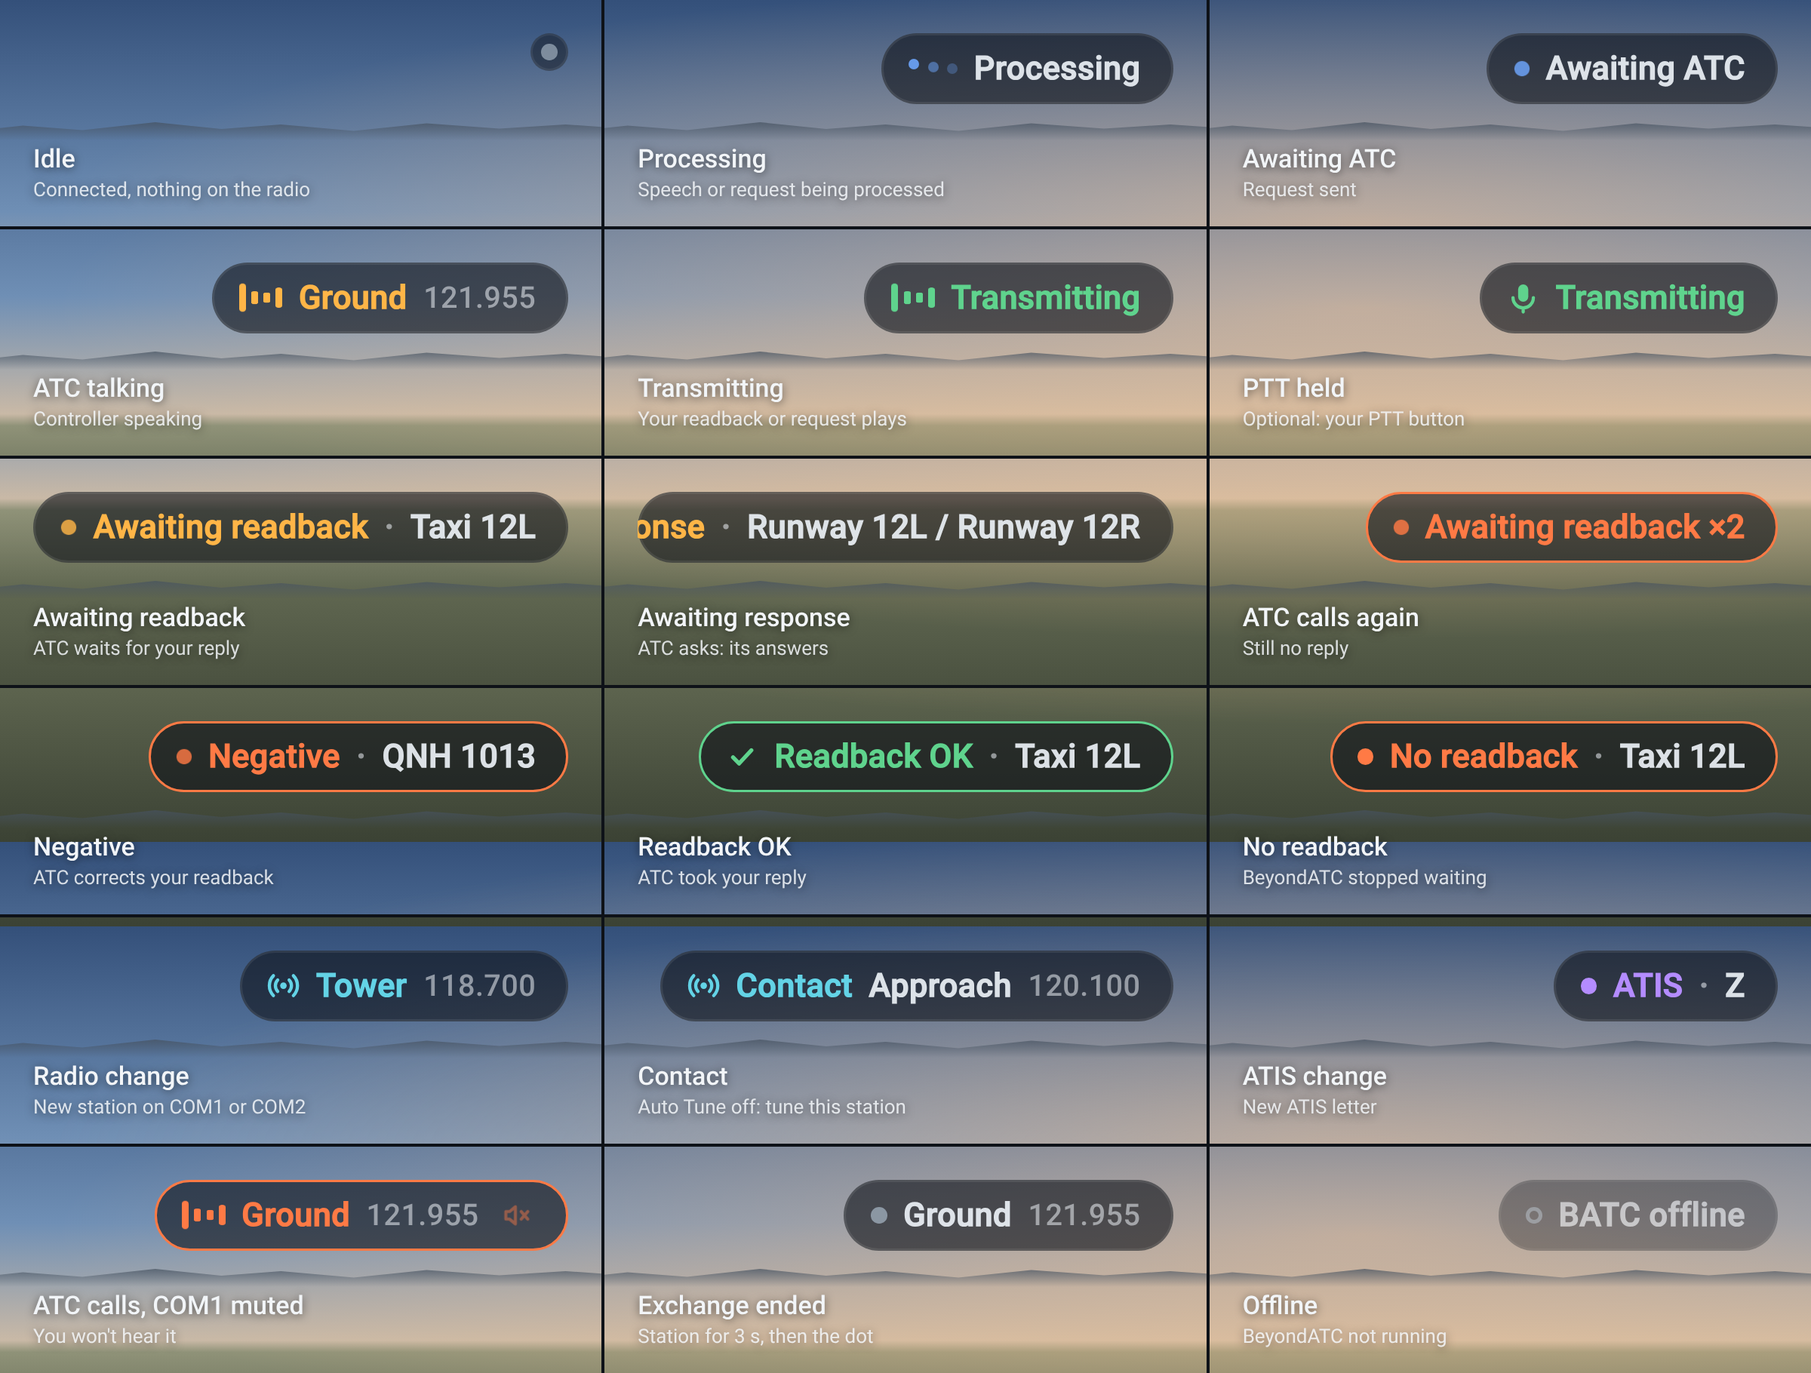
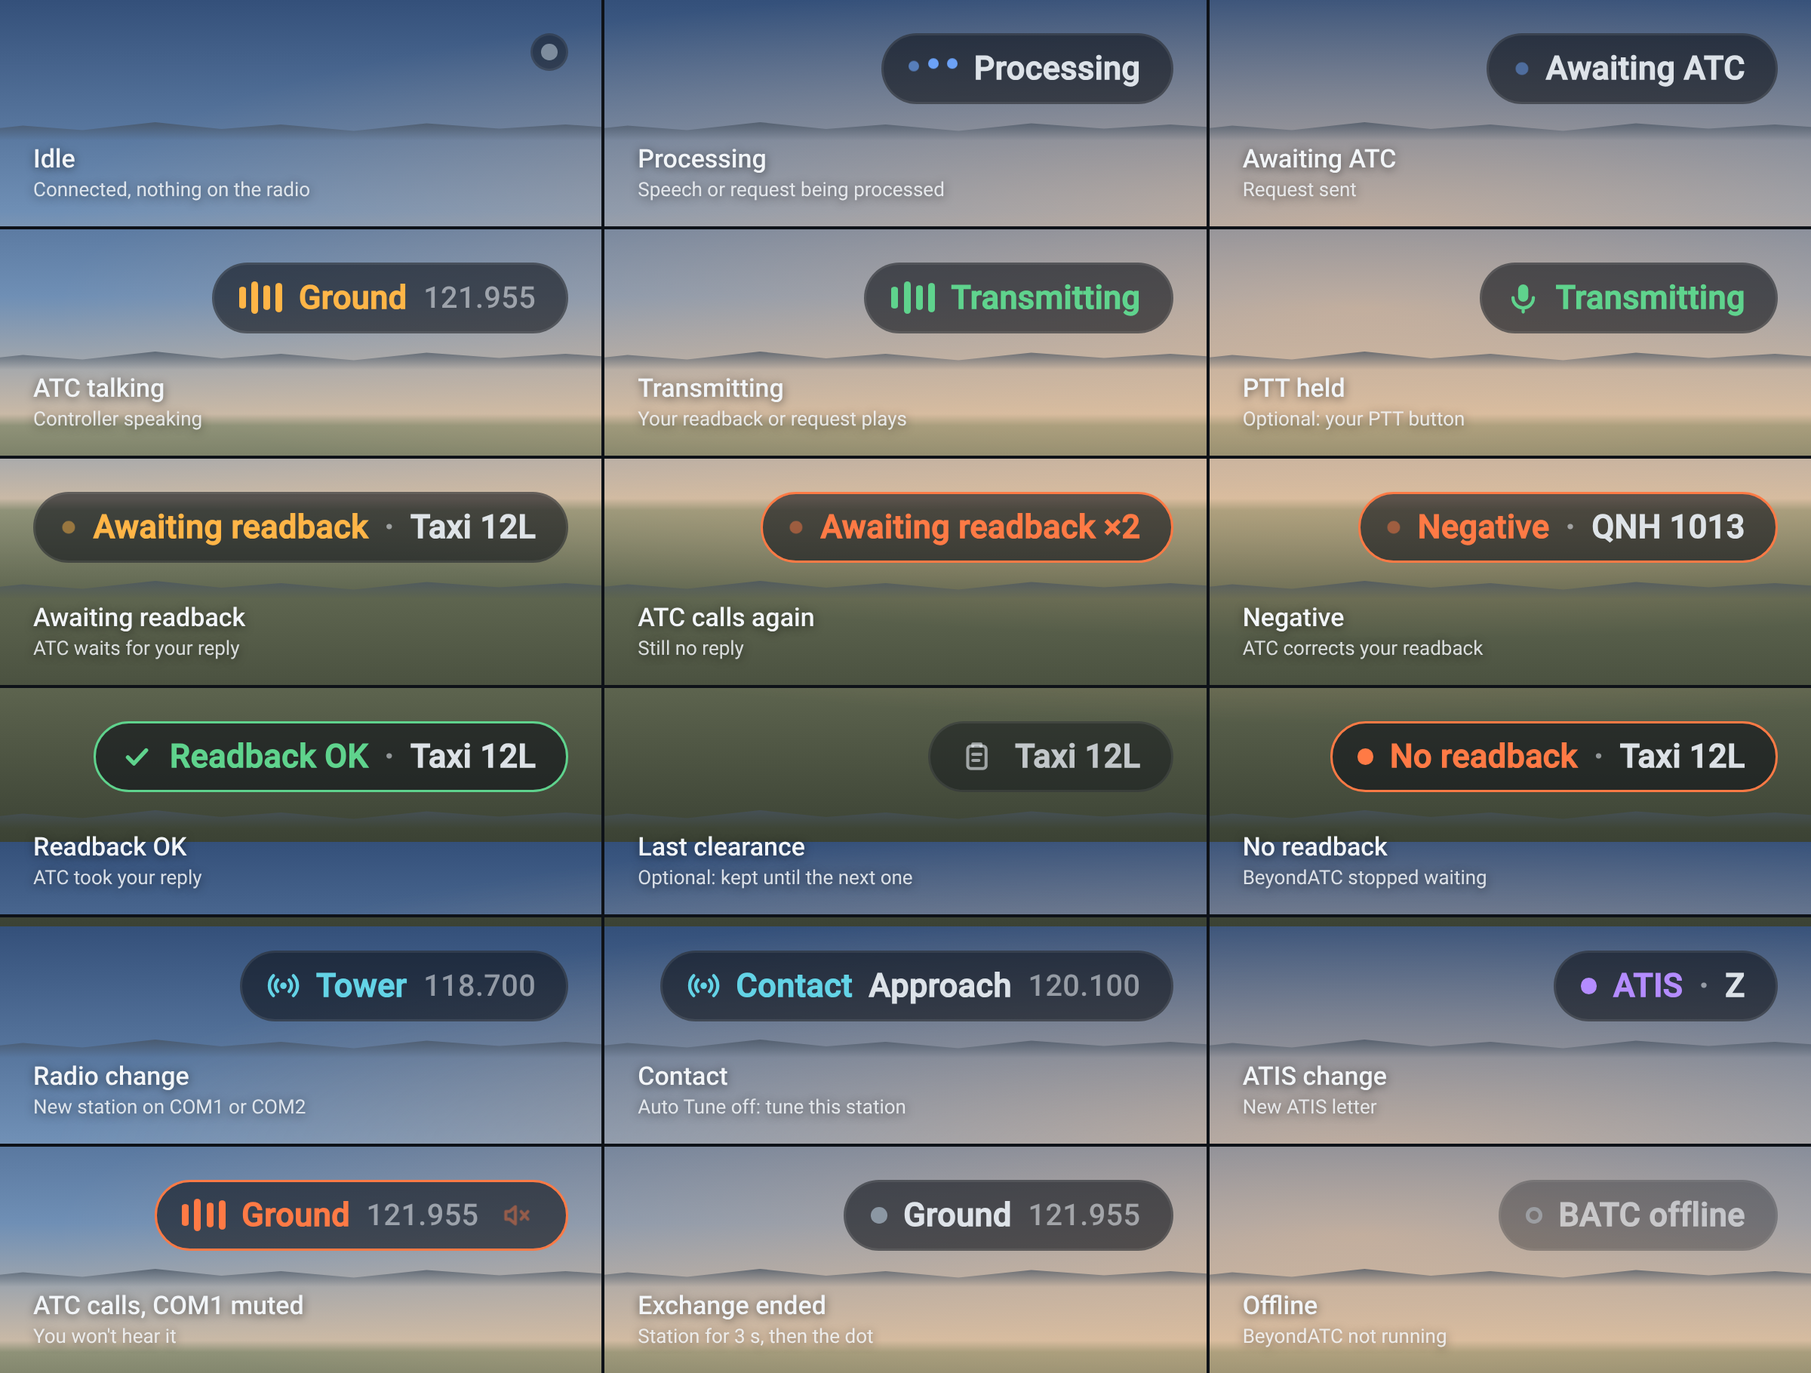
Keep last clearance (option)
After ATC takes your reply, its hint stays on the pill, dimmed, instead of shrinking to the dot (follows
the detail setting; Boxes shows "Last clearance" over the boxes). The next reply ATC takes replaces it;
a "No readback", a new station on COM1 or a disconnect clears it. On hover its clipboard icon turns into
a ✕ that hides it; the rest of the pill still opens the settings. Setting "Keep last clearance", off by
default. The hover buttons now follow the Size setting.

Claude-Session: https://claude.ai/code/session_01Lk4uSD1H6Vg8SX71CWaquM

diff --git a/src/html_ui/paul-batc-pill/pill.js b/src/html_ui/paul-batc-pill/pill.js
@@ -20,6 +20,8 @@
     showReadback: true,  // while BeyondATC waits for your readback, hint what it is ("Taxi 30R")
     readbackDetail: "hint", // with a readback pending: "none" (status only), "short" (the boxes' values:
                             // "30R · T1"), "hint" ("Taxi via T1"), "boxes" (the toolbar's clearance boxes)
+    keepLast: false,     // after ATC took your reply, keep its hint on the pill (quiet) until the next instruction,
+                         // a new station on COM1, or its ✕ (hover) instead of shrinking to the dot
     showTuning: true,    // show the new station when COM1/COM2 changes
     showContact: true,   // Auto Tune off: after "contact <station> <freq>", remind you until COM1 is on it
     showAtis: true,      // show a new ATIS letter
@@ -42,7 +44,7 @@
   var CONFIRM_MS = 1500;  // "Readback OK" shows this long after ATC took your reply
 
   // What the settings card changes. Saved in localStorage, which every sim UI view shares.
-  var USER_KEYS = ["corner", "x", "y", "scale", "showTuning", "showContact", "showAtis", "showReadback", "readbackDetail",
+  var USER_KEYS = ["corner", "x", "y", "scale", "showTuning", "showContact", "showAtis", "showReadback", "readbackDetail", "keepLast",
     "warnMuted", "showPtt", "hoverSwitches", "hideOffline",
     "showTraffic", "facility"];
   var STORE_KEY = "batcpill.settings";
@@ -91,7 +93,8 @@
     missed: null,        // { label, detail } after BeyondATC stopped waiting without a reply, until missedUntil
     missedUntil: 0,
     confirmed: null,     // { readback, detail, boxes } after ATC took your reply, shown until confirmedUntil
-    confirmedUntil: 0,   // 0 while your reply still plays: the confirmation starts once the radio is quiet
+    confirmedUntil: 0,
+    kept: null,          // { detail, boxes } of the last reply ATC took, shown with keepLast   // 0 while your reply still plays: the confirmation starts once the radio is quiet
     infoBoxes: [],       // the toolbar's clearance boxes: [{ title: "SID", info: "KELA8L" }, ...]
     seenFacility: false, // the first Facility after connecting is the snapshot, not a change
     editing: false,      // settings card open: the pill shows a sample so size/position are visible
@@ -153,6 +156,7 @@
     '<div class="bc-pane" data-pane="display">' +
       toggleRow("Readback hints", "showReadback") +
       choiceRow("readbackDetail", [["none", "None"], ["short", "Short"], ["hint", "Hint"], ["boxes", "Boxes"]]) +
+      toggleRow("Keep last clearance", "keepLast") +
       toggleRow("Radio changes", "showTuning") + toggleRow("Contact reminders", "showContact") +
       toggleRow("ATIS changes", "showAtis") + toggleRow("Warn when COM1 muted", "warnMuted") +
       toggleRow("PTT indicator", "showPtt") +
@@ -220,6 +224,7 @@
     st[v] = "calc(" + Number(CONFIG.y) + " * 0.0926vh)";
     st[h] = "calc(" + Number(CONFIG.x) + " * 0.0926vh)";
     st.setProperty("--u", (0.0926 * Number(CONFIG.scale || 1)) + "vh");
+    switches.style.setProperty("--k", (0.0926 * Number(CONFIG.scale || 1)) + "vh"); // the hover buttons scale too
     root.setAttribute("data-side", h);
 
     // the card opens beside the pill, away from the screen edge (card units stay at scale 1)
@@ -302,13 +307,34 @@
     if (CONFIG.readbackDetail === "boxes" && boxes.length) {
       // "Awaiting readback" over the boxes, as in the toolbar; their titles say what it's about
       return { cls: cls + " is-msg", html: lamp + '<span class="bp-who">' + label + "</span>",
-        extra: '<span class="bp-boxes">' + boxes.map(function (b) {
-          return '<span class="bp-box"><span class="bp-box-t">' + esc(b.title) + '</span><span class="bp-box-v">' +
-            esc(b.info) + "</span></span>";
-        }).join("") + "</span>" };
+        extra: boxesHtml(boxes) };
     }
     return { cls: cls, html: lamp + '<span class="bp-who">' + label + "</span>" +
       (detail ? '<span class="bp-sep">·</span><span>' + esc(detail) + "</span>" : "") };
+  }
+
+  function boxesHtml(boxes) {
+    return '<span class="bp-boxes">' + boxes.map(function (b) {
+      return '<span class="bp-box"><span class="bp-box-t">' + esc(b.title) + '</span><span class="bp-box-v">' +
+        esc(b.info) + "</span></span>";
+    }).join("") + "</span>";
+  }
+
+  // The last reply ATC took, kept quiet in the pill. Its clipboard icon turns into a ✕ on hover (CSS); a click
+  // there hides it (the rest of the pill still opens the settings). Returns null when there's nothing to show.
+  var KEPT_ICON = '<span class="bp-unpin" data-input-group="BATC-PILL">' +
+    '<svg class="bp-clip" viewBox="0 0 16 16" fill="none" stroke="currentColor" stroke-width="1.5" stroke-linecap="round" ' +
+    'stroke-linejoin="round"><rect x="3.5" y="3" width="9" height="11" rx="1.5"/><path d="M6 3V2h4v1M6 7h4M6 10h3"/></svg>' +
+    '<svg class="bp-x" viewBox="0 0 16 16" fill="none" stroke="currentColor" stroke-width="1.8" stroke-linecap="round">' +
+    '<path d="M4.5 4.5l7 7M11.5 4.5l-7 7"/></svg></span>';
+
+  function keptLook(k) {
+    if (CONFIG.readbackDetail === "none") return null;
+    if (CONFIG.readbackDetail === "boxes" && k.boxes.length) {
+      return { cls: "s-pin is-msg", html: KEPT_ICON + "<span>Last clearance</span>", extra: boxesHtml(k.boxes) };
+    }
+    var d = detailFor(k.detail, k.boxes);
+    return d ? { cls: "s-pin", html: KEPT_ICON + "<span>" + esc(d) + "</span>" } : null;
   }
 
   // ATC took your reply (BeyondATC says nothing back to a correct one): green "Readback OK" with the hint
@@ -376,6 +402,12 @@
     switch (state.demo) {
       case "showTuning":
         if (CONFIG.showTuning) return tuneLook({ label: "", facility: { name: "Montpellier Tower", freq: "118.700" } });
+        break;
+      case "keepLast":
+        if (CONFIG.showReadback && CONFIG.keepLast) {
+          var kv = keptLook({ detail: "Taxi via T1 · Hold short 12L", boxes: DEMO_BOXES });
+          if (kv) return kv;
+        }
         break;
       case "showReadback":
       case "readbackDetail":
@@ -462,6 +494,8 @@
           v = atisLook(state.atis);
         } else if (state.contact && !state.autoTune && CONFIG.showContact) {
           v = contactLook(state.contact);
+        } else if (state.kept && CONFIG.keepLast && CONFIG.showReadback && (v = keptLook(state.kept))) {
+          // the last reply ATC took, instead of the station and the dot
         } else if (now < state.lingerUntil) {
           v = { cls: "", html: LAMP + facilityHtml("") };
         }
@@ -654,6 +688,7 @@
         state.confirmed = { readback: wc.readback, detail: readbackHint(state.readback.text) || wc.kind,
           boxes: wc.choices.length ? [] : state.infoBoxes };
         state.confirmedUntil = 0;
+        state.kept = { detail: state.confirmed.detail, boxes: state.confirmed.boxes };
         if (state.mode === "ready") startConfirm();
       } else if (state.readback && !state.replied) {
         // BeyondATC stopped waiting on its own (after ~18 s for taxi or acknowledge replies)
@@ -661,6 +696,7 @@
         state.missed = { label: w.readback ? "No readback" : "No response",
           detail: readbackHint(state.readback.text) || (state.readback.negative && correction(state.readback.text)) || w.kind, boxes: w.choices.length ? [] : state.infoBoxes };
         state.missedUntil = Date.now() + CONFIG.missedMs;
+        state.kept = null; // a newer instruction went unanswered: the kept one is out of date
         clearTimeout(timers.missed);
         timers.missed = setTimeout(render, CONFIG.missedMs + 20);
       }
@@ -784,6 +820,7 @@
         state.facility = freq ? { name: stationName(parts[0]), freq: freq } : { name: "", freq: "" };
         if (state.seenFacility && (prev.name !== state.facility.name || prev.freq !== state.facility.freq)) {
           tuned("", state.facility);
+          state.kept = null; // a new station: the last clearance belongs to the old one
         }
         if (state.contact && onContact(state.contact)) state.contact = null;
         state.seenFacility = true;
@@ -888,6 +925,7 @@
       state.repliesKey = "";
       state.infoBoxes = [];
       state.readback = null;
+      state.kept = null;
       showSwitches(false);
       render();
       if (!destroyed) timers.reconnect = setTimeout(connect, CONFIG.reconnectMs);
@@ -948,7 +986,18 @@
     render();
   }
 
-  root.addEventListener("click", function () { openCard(!state.editing); });
+  root.addEventListener("click", function (e) {
+    // the kept clearance's ✕ hides it; anywhere else opens the settings
+    for (var el = e.target; el && el !== root; el = el.parentNode) {
+      if (el.className && String(el.className.baseVal || el.className).indexOf("bp-unpin") >= 0) {
+        if (state.editing) break; // the settings sample: just a click on the pill
+        state.kept = null;
+        render();
+        return;
+      }
+    }
+    openCard(!state.editing);
+  });
 
   card.addEventListener("click", function (e) {
     var el = e.target;

diff --git a/docs/render/pills.js b/docs/render/pills.js
@@ -13,6 +13,9 @@ var BP = (function () {
     'stroke-linecap="round" stroke-linejoin="round"><path d="M3 6h2l3-2.5v9L5 10H3z"/><path d="M11 6l3.5 4M14.5 6L11 10"/></svg>';
   var CHECK = '<svg class="bp-ico bp-check" viewBox="0 0 16 16" fill="none" stroke="currentColor" stroke-width="2" ' +
     'stroke-linecap="round" stroke-linejoin="round"><path d="M3.5 8.5l3 3 6-6.5"/></svg>';
+  var KEPT = '<span class="bp-unpin"><svg class="bp-clip" viewBox="0 0 16 16" fill="none" stroke="currentColor" ' +
+    'stroke-width="1.5" stroke-linecap="round" stroke-linejoin="round"><rect x="3.5" y="3" width="9" height="11" rx="1.5"/>' +
+    '<path d="M6 3V2h4v1M6 7h4M6 10h3"/></svg></span>';
   var FREQ = '<span class="bp-freq">121.955</span>';
   var SEP = '<span class="bp-sep">·</span>';
   var STATES = [
@@ -24,13 +27,12 @@ var BP = (function () {
     ["ptt", "s-you", MIC + '<span class="bp-who">Transmitting</span>', "PTT held", "Optional: your PTT button"],
     ["readback", "s-atc is-pulse", LAMP + '<span class="bp-who">Awaiting readback</span>' + SEP + "<span>Taxi 12L</span>",
       "Awaiting readback", "ATC waits for your reply"],
-    ["question", "s-atc is-pulse", LAMP + '<span class="bp-who">Awaiting response</span>' + SEP + "<span>Runway 12L / Runway 12R</span>",
-      "Awaiting response", "ATC asks: its answers"],
     ["insist", "s-insist is-pulse", LAMP + '<span class="bp-who">Awaiting readback ×2</span>', "ATC calls again", "Still no reply"],
     ["negative", "s-insist is-pulse", LAMP + '<span class="bp-who">Negative</span>' + SEP + "<span>QNH 1013</span>",
       "Negative", "ATC corrects your readback"],
     ["ok", "s-ok", CHECK + '<span class="bp-who">Readback OK</span>' + SEP + "<span>Taxi 12L</span>",
       "Readback OK", "ATC took your reply"],
+    ["kept", "s-pin", KEPT + "<span>Taxi 12L</span>", "Last clearance", "Optional: kept until the next one"],
     ["missed", "s-insist", LAMP + '<span class="bp-who">No readback</span>' + SEP + "<span>Taxi 12L</span>",
       "No readback", "BeyondATC stopped waiting"],
     ["tune", "s-tune", RADIO + '<span class="bp-who">Tower</span><span class="bp-freq">118.700</span>', "Radio change", "New station on COM1 or COM2"],

diff --git a/src/html_ui/paul-batc-pill/pill.css b/src/html_ui/paul-batc-pill/pill.css
@@ -134,6 +134,30 @@
 #batc-pill.s-atis  { --c: #b48cff; }
 #batc-pill.s-ok    { --c: #5fd38d; }
 #batc-pill.s-ok .bp-bg { border-color: var(--c); }
+/* the last reply ATC took, kept (keepLast): quieter than any live state */
+#batc-pill.s-pin { --c: rgba(236, 241, 246, 0.6); color: rgba(236, 241, 246, 0.78); }
+#batc-pill.s-pin .bp-bg { background-color: rgba(14, 18, 24, 0.5); }
+#batc-pill .bp-unpin {
+  position: relative;
+  display: flex;
+  align-items: center;
+  justify-content: center;
+  width: calc(16 * var(--u));
+  height: calc(16 * var(--u));
+  margin-left: calc(-2 * var(--u));
+  border-radius: 50%;
+  color: var(--c);
+  pointer-events: auto; /* the one child that takes clicks: it hides the kept clearance */
+  transition: background-color 0.15s ease, color 0.15s ease;
+}
+#batc-pill .bp-unpin svg { position: absolute; }
+#batc-pill .bp-unpin .bp-clip { width: calc(12 * var(--u)); height: calc(12 * var(--u)); }
+#batc-pill .bp-unpin .bp-x { width: calc(9 * var(--u)); height: calc(9 * var(--u)); opacity: 0; }
+/* hover: the icon turns into a ✕, same size, so nothing moves */
+#batc-pill[data-input-group]:hover .bp-unpin { background-color: rgba(255, 255, 255, 0.16); color: #ffffff; }
+#batc-pill[data-input-group]:hover .bp-unpin .bp-clip { opacity: 0; }
+#batc-pill[data-input-group]:hover .bp-unpin .bp-x { opacity: 1; }
+#batc-pill .bp-unpin:hover { background-color: rgba(255, 255, 255, 0.28); }
 #batc-pill.s-insist .bp-bg { border-color: var(--c); }
 #batc-pill.s-insist .bp-lamp { animation-duration: 0.7s; }
 

diff --git a/docs/render_images.py b/docs/render_images.py
@@ -60,7 +60,7 @@ def main():
     print(f"render: states.png {img.size}")
 
     # pill + open card in the top-right corner of a 1080p screen
-    img = shoot("settings.html", (1920, 1080), 2).crop((1600 * 2, 50 * 2, 1920 * 2, 640 * 2))
+    img = shoot("settings.html", (1920, 1080), 2).crop((1600 * 2, 50 * 2, 1920 * 2, 670 * 2))
     img.save(OUT / "settings.png", optimize=True)
     print(f"render: settings.png {img.size}")
 

diff --git a/README.md b/README.md
@@ -9,7 +9,7 @@ A small pill in a corner of the Microsoft Flight Simulator 2024 screen that show
 - **Queued / Processing / Awaiting ATC** (blue): your request is on its way.
 - **ATC talking** (amber): the controller is speaking, with the station and frequency.
 - **Transmitting** (green): your readback or request is being played (sound-wave icon), or you're holding PTT (mic icon, optional, see below).
-- **Awaiting readback / Awaiting response** (amber, pulsing): ATC waits for your readback, acknowledgement or answer (the toolbar offers "Say Again"), with a short hint ("IFR clearance · Climb FL060", "Taxi 30R", the answers to a question: "Runway 12L / Runway 12R"), or the toolbar's clearance boxes (runway, SID, altitude, squawk). If ATC calls you again before you reply, the pill turns red-orange ("Awaiting response ×2"). If ATC answers your readback with a correction ("Negative, QNH 1013"), the pill turns red-orange with "Negative" and the correction. When ATC takes your reply, the pill turns green for 1.5 s ("Readback OK"). If BeyondATC stops waiting without a reply (it drops taxi and acknowledge replies after about 18 s), "No readback" shows for 5 s.
+- **Awaiting readback / Awaiting response** (amber, pulsing): ATC waits for your readback, acknowledgement or answer (the toolbar offers "Say Again"), with a short hint ("IFR clearance · Climb FL060", "Taxi 30R", the answers to a question: "Runway 12L / Runway 12R"), or the toolbar's clearance boxes (runway, SID, altitude, squawk). If ATC calls you again before you reply, the pill turns red-orange ("Awaiting response ×2"). If ATC answers your readback with a correction ("Negative, QNH 1013"), the pill turns red-orange with "Negative" and the correction. When ATC takes your reply, the pill turns green for 1.5 s ("Readback OK"); with **Keep last clearance** on, its hint then stays on the pill, dimmed, until the next instruction, a new station on COM1, or its ✕ (hover the pill: the clipboard icon turns into ✕). If BeyondATC stops waiting without a reply (it drops taxi and acknowledge replies after about 18 s), "No readback" shows for 5 s.
 - **Radio change** (cyan): the new station when COM1 or COM2 changes.
 - **Contact** (cyan): with BeyondATC's Auto Tune off, after "contact Marseille Approach on 120.100", until COM1 is on it.
 - **ATIS** (purple): a new ATIS letter ("ATIS · Z"), for 6 s; and "ATIS" while COM1 plays an ATIS.
@@ -40,6 +40,7 @@ Hovering the pill shows two buttons under it: BeyondATC's **Auto Tune** (radio w
 |---|---|
 | Readback hints | show when ATC waits for your readback, acknowledgement or answer |
 | None / Short / Hint / Boxes | how much of it: status only, the clearance boxes' values ("30R · T1 · T1"), a short hint ("Taxi via T1 · Hold short 12L") or the toolbar's clearance boxes |
+| Keep last clearance | after ATC takes your reply, keep its hint on the pill (dimmed) instead of shrinking to the dot |
 | Radio changes | show the new station when COM1 or COM2 changes |
 | Contact reminders | with Auto Tune off, show whom to contact until COM1 is on it |
 | ATIS changes | show a new ATIS letter |

diff --git a/CHANGELOG.md b/CHANGELOG.md
@@ -5,6 +5,7 @@
 - Added: readback hints. While ATC waits for your readback, acknowledgement or answer, the pill shows "Awaiting readback" or "Awaiting response" with a short hint, the toolbar's clearance boxes or their values (None / Short / Hint / Boxes).
 - Added: the pill turns red-orange when ATC calls you again before you reply ("×2", "×3"), and shows "No readback" when BeyondATC stops waiting.
 - Added: when ATC takes your reply, the pill turns green for 1.5 s ("Readback OK" with the hint).
+- Added: optional "Keep last clearance": the last reply ATC took stays on the pill, dimmed, until the next instruction or a new station on COM1; hover and click its ✕ to hide it.
 - Added: ATC answering a wrong readback ("Negative, QNH 1013.") turns the pill red-orange with "Negative" and the correction.
 - Added: hints for line up, go around, speeds, STARs, "report" requests and taxi to a ramp or gate; "taxi via M, T" shows every taxiway.
 - Added: with Auto Tune off, a "Contact" reminder until COM1 is on the station ATC handed you to.

diff --git a/docs/flightsim-to.md b/docs/flightsim-to.md
@@ -54,6 +54,7 @@ Source and issues: https://github.com/paul-charp/FS24-BATC-Pill
 - Added: readback hints. While ATC waits for your readback, acknowledgement or answer, the pill shows "Awaiting readback" or "Awaiting response" with a short hint, the toolbar's clearance boxes or their values.
 - Added: the pill turns red-orange when ATC calls you again before you reply, and shows "No readback" when BeyondATC stops waiting.
 - Added: a green "Readback OK" when ATC takes your reply, and a red-orange "Negative" with the correction when ATC rejects it.
+- Added: optional "Keep last clearance": the last clearance stays on the pill until the next one.
 - Added: hovering the pill shows buttons for BeyondATC's Auto Tune and Auto Respond.
 - Added: hints for line up, go around, speeds, STARs, "report" requests and taxi to a ramp or gate.
 - Added: with Auto Tune off, a "Contact" reminder until COM1 is on the station ATC handed you to.
